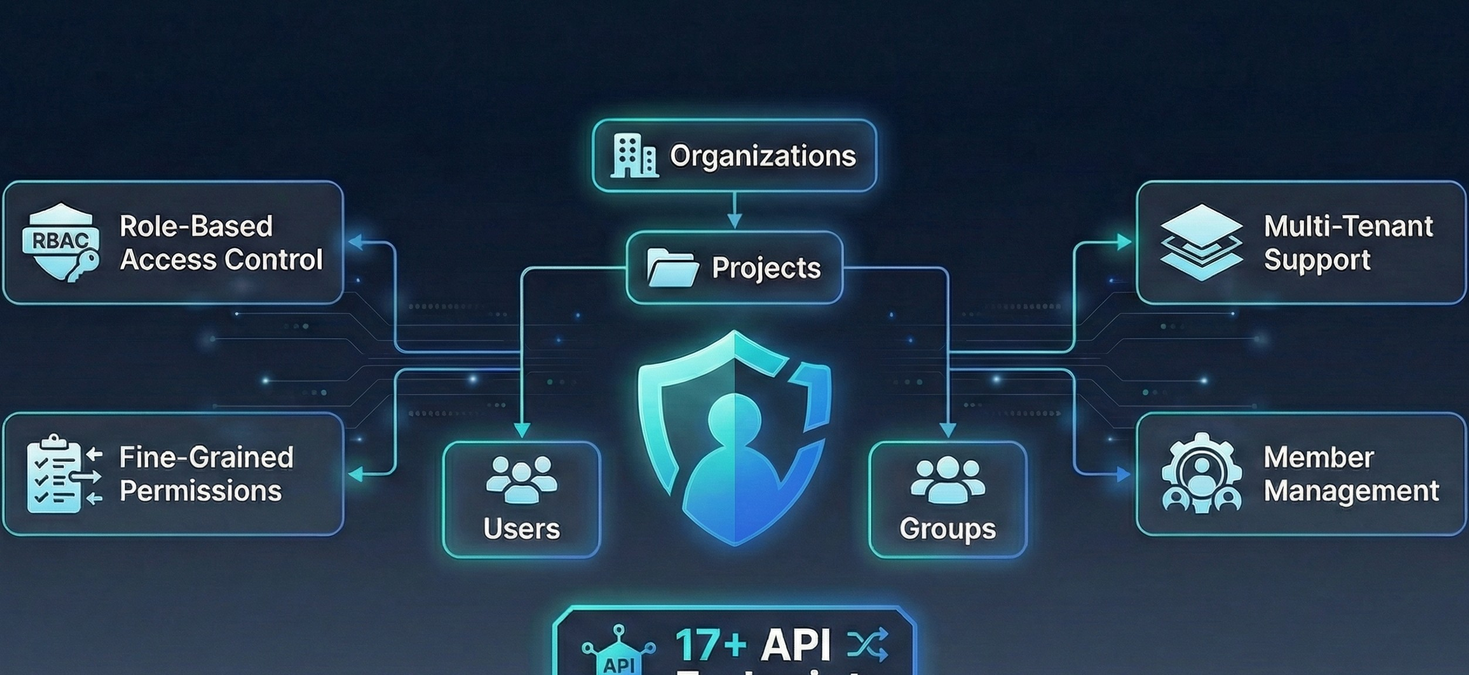
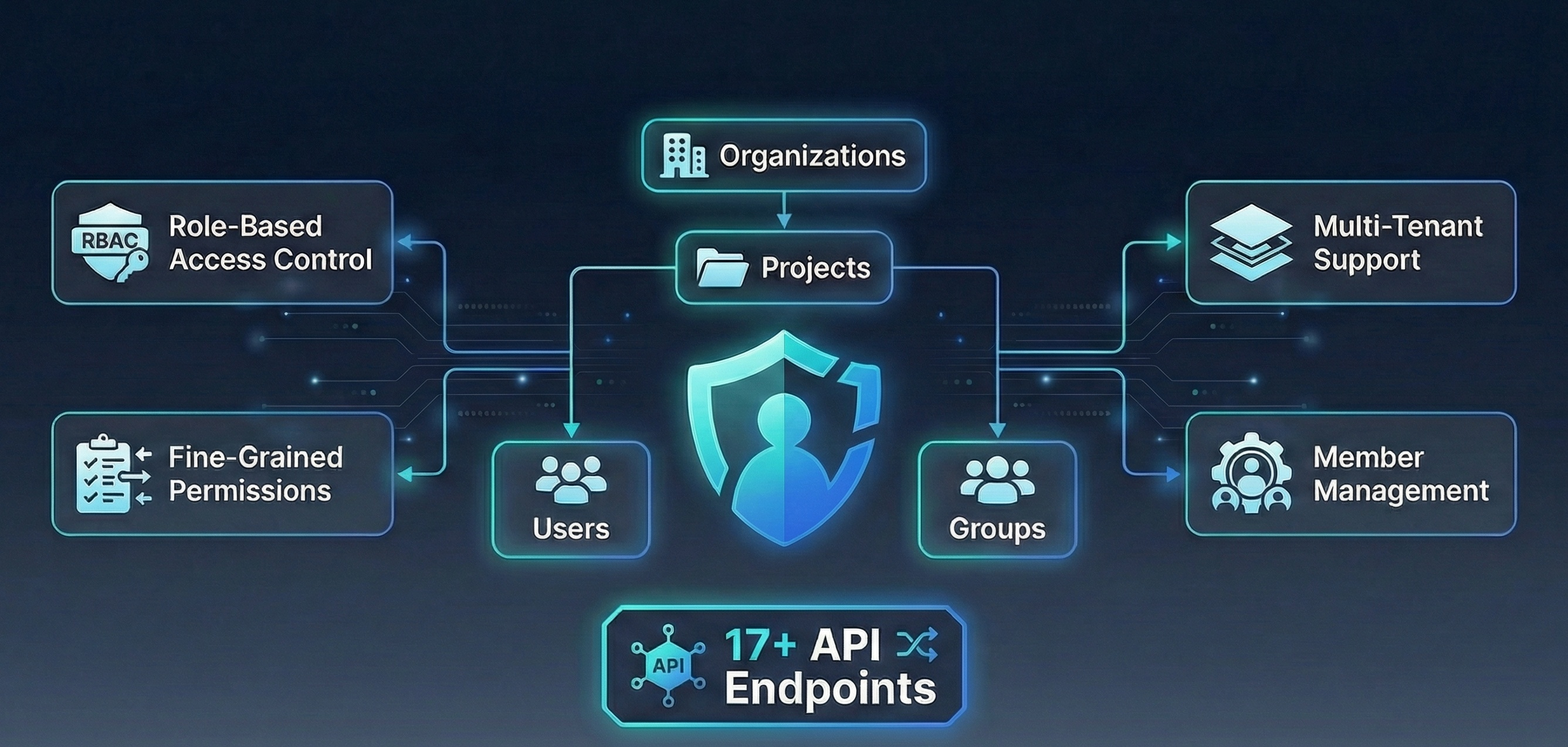
Fix IAM Security image - restore bottom content with safe margins

Changed region(s): [[0.0, 0.125, 1.0, 1.0]]

diff --git a/index.html b/index.html
@@ -269,7 +269,7 @@
                 <p>Secure your OpenStack infrastructure with organizations, projects, role-based access control, and fine-grained permissions</p>
             </div>
             <div class="visual-showcase visual-large">
-                <img src="05_iam_security.jpg?v=2" alt="Enterprise IAM & Security - Organizations, projects, users, groups, RBAC" class="visual-image">
+                <img src="05_iam_security.jpg?v=3" alt="Enterprise IAM & Security - Organizations, projects, users, groups, RBAC" class="visual-image">
             </div>
             <div class="features-inline">
                 <div class="feature-inline-item">
